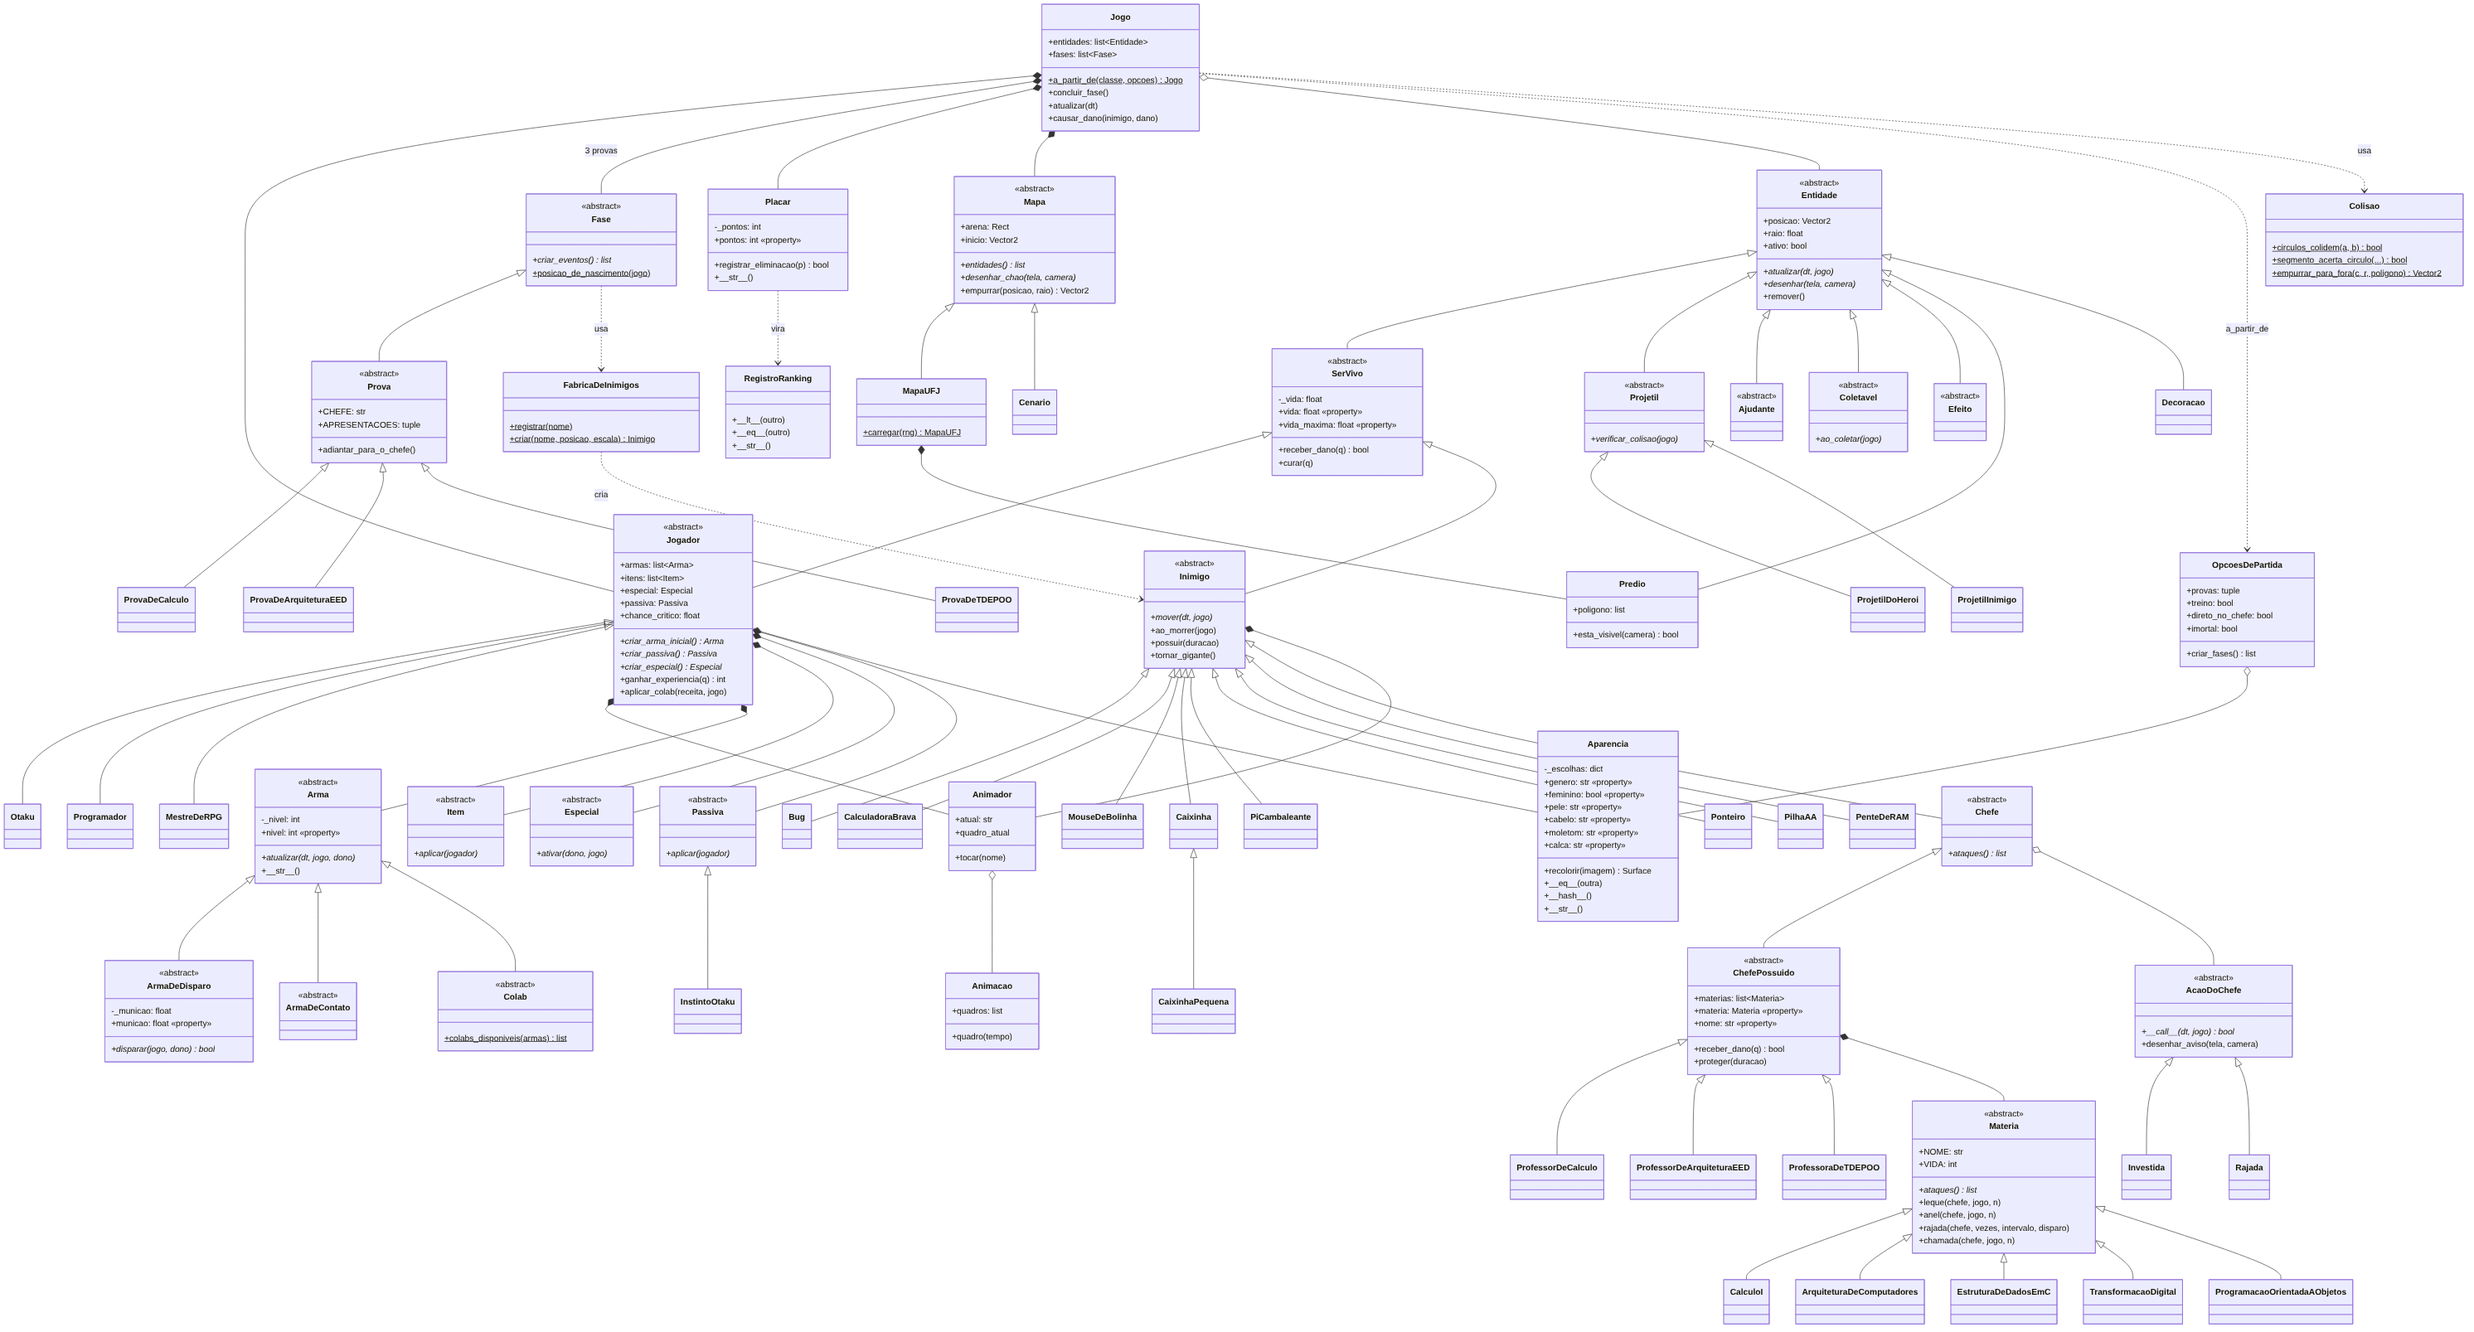
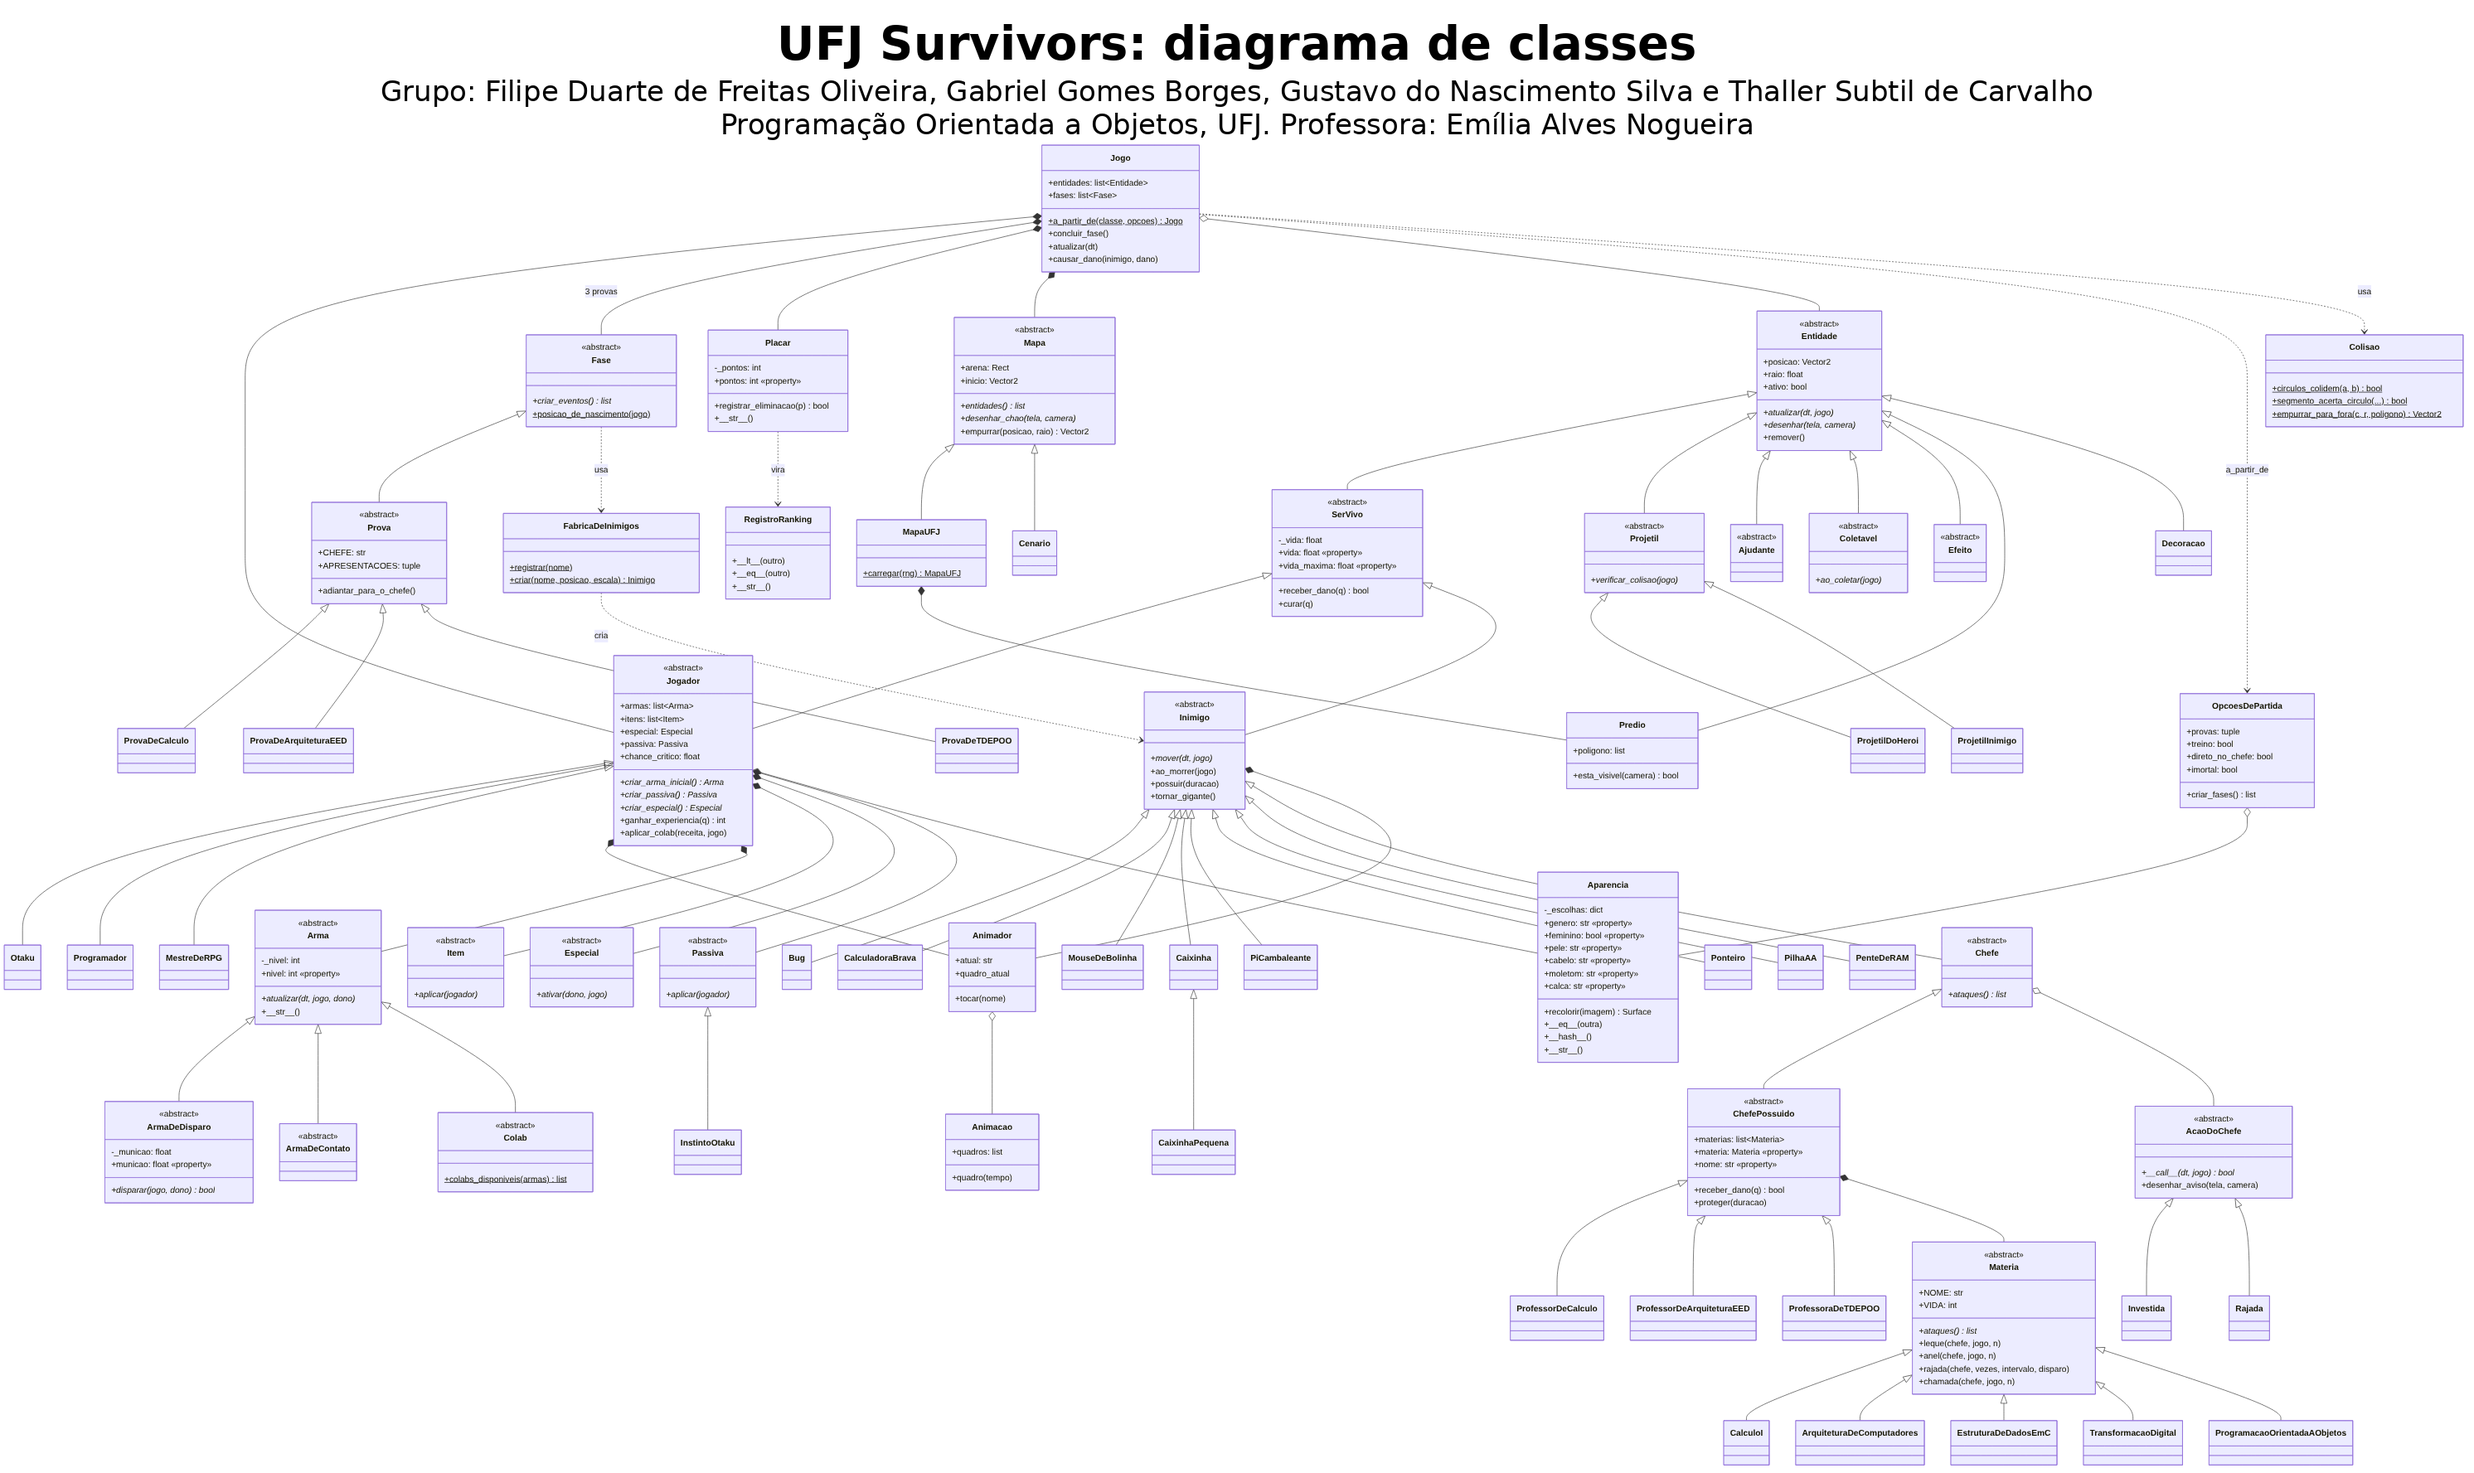
docs: Gabriel e Gustavo entram no grupo
Proposta da etapa 1, README e diagrama de classes com os quatro
integrantes (Filipe Duarte de Freitas Oliveira, Gabriel Gomes Borges,
Gustavo do Nascimento Silva e Thaller Subtil de Carvalho). O diagrama
ganhou um cabeçalho com título, grupo e disciplina, e a proposta passou a
descrever a personalização atual (gênero, antes da escolha de classe).

Claude-Session: https://claude.ai/code/session_01ACrknk9fN9rKJJnMMiZ4qQ

diff --git a/docs/entregas/etapa1_proposta.md b/docs/entregas/etapa1_proposta.md
@@ -2,7 +2,7 @@
 
 **Disciplina:** Programação Orientada a Objetos, UFJ. **Professora:** Emília Alves Nogueira.
 
-**Integrantes:** Filipe Duarte de Freitas Oliveira; Thaller Subtil de Carvalho
+**Integrantes:** Filipe Duarte de Freitas Oliveira; Gabriel Gomes Borges; Gustavo do Nascimento Silva; Thaller Subtil de Carvalho
 
 **Repositório:** https://github.com/thallersubtil/UFJ-Survivors
 
@@ -20,7 +20,7 @@ Regras principais:
 - **Café é a munição:** as armas de disparo gastam café, que recarrega sozinho; sem café elas atiram bem mais devagar. Copinhos de café caídos enchem o estoque.
 - **Combo 67:** 67 eliminações seguidas sem levar dano tocam o áudio "six seven" e dão +50% de velocidade por 6 segundos.
 - **Colabs:** duas armas no nível máximo se juntam numa arma nova (por exemplo, Caramelo + Fusca Azul = Caramelo no Fusca).
-- **Personalização:** antes da partida o jogador escolhe tom de pele, cor do cabelo, do moletom e da calça do aluno.
+- **Personalização:** antes de escolher a classe, o jogador monta o aluno: gênero (aluno ou aluna, cada um com arte própria), tom de pele, cor do cabelo, do moletom e da calça. Os cartões das classes já mostram o aluno montado.
 - **Vagas:** no máximo 4 armas (ativas) e 4 itens (passivos); com as vagas cheias, só melhorias. Uma colab funde duas armas e libera uma vaga.
 - **Modo treino:** escolher qual professor enfrentar, opcionalmente começando direto no chefe e com o aluno imortal; não entra no ranking.
 - **Ranking:** os 10 melhores resultados ficam salvos em um arquivo local.
@@ -80,7 +80,7 @@ Principais decisões de design:
 - **`SerVivo`** concentra a vida (com `@property` e validação) e é a base comum de `Jogador` e `Inimigo`, que têm vida mas se comportam de jeitos diferentes.
 - **`Inimigo` é abstrata** com o método abstrato `mover()`. Cada lacaio só implementa o próprio jeito de andar e, quando precisa, sobrescreve `ao_morrer()` (a Caixinha se divide, a Pilha explode, o Pi mostra "3,14..."). O `Chefe` é um inimigo com uma lista de ataques. O `ChefePossuido` **contém** uma lista de `Materia` (composição): a matéria atual dá o nome, a vida e os ataques; quando ela é derrotada e ainda há outra, a próxima possui o professor. Cada matéria é uma subclasse de `Materia` que combina ataques prontos (leque, anel, rajada, chamada, investida); chefe novo = matéria nova, sem mudar classes existentes.
 - **`Fase` é abstrata**; `Prova` monta a linha do tempo a partir de dados, e as três provas só preenchem esses dados. O `Jogo` contém a lista de provas e passa de uma para a outra quando o chefe cai.
-- **`Aparencia`** guarda as escolhas de cor do aluno com `@property` e validação, e tem `__eq__`/`__hash__` para servir de chave no cache das imagens recoloridas.
+- **`Aparencia`** guarda as escolhas do aluno (gênero e cores) com `@property` e validação, e tem `__eq__`/`__hash__` para servir de chave no cache das imagens recoloridas.
 - **`Jogador` é abstrata** com `criar_arma_inicial()`, `criar_passiva()` e `criar_especial()`; cada classe (Otaku, Programador, Mestre de RPG) só implementa esses três. **`Passiva` é abstrata** com `aplicar(jogador)`, chamada junto com os itens.
 - **`Mapa` é abstrata**, com duas implementações: `MapaUFJ` (o campus, lido de um arquivo gerado) e `Cenario` (um pátio genérico). O `Jogo` não sabe qual está usando. Os prédios são `Predio`, entidades com o contorno real como polígono de colisão.
 - **Animação por composição:** heróis, inimigos e ajudantes contêm um `Animador`, que guarda as `Animacao`s (parado, andar) e sabe qual quadro desenhar; cada classe só diz qual animação quer.

diff --git a/README.md b/README.md
@@ -10,6 +10,8 @@ Sobreviva às provas do semestre na UFJ. Jogo 2D em Pygame no estilo "survivors"
 
 No chefe de duas matérias, quando a vida da primeira zera, a segunda (mais difícil) possui o professor e a luta continua com a vida cheia.
 
+**Grupo:** Filipe Duarte de Freitas Oliveira, Gabriel Gomes Borges, Gustavo do Nascimento Silva e Thaller Subtil de Carvalho.
+
 ![Captura de tela](docs/entregas/captura_combate.png)
 
 > **Vai trabalhar no projeto (você ou sua IA)?** Leia primeiro o [AGENTS.md](AGENTS.md) e a lista de [pendências](docs/PENDENCIAS.md).
